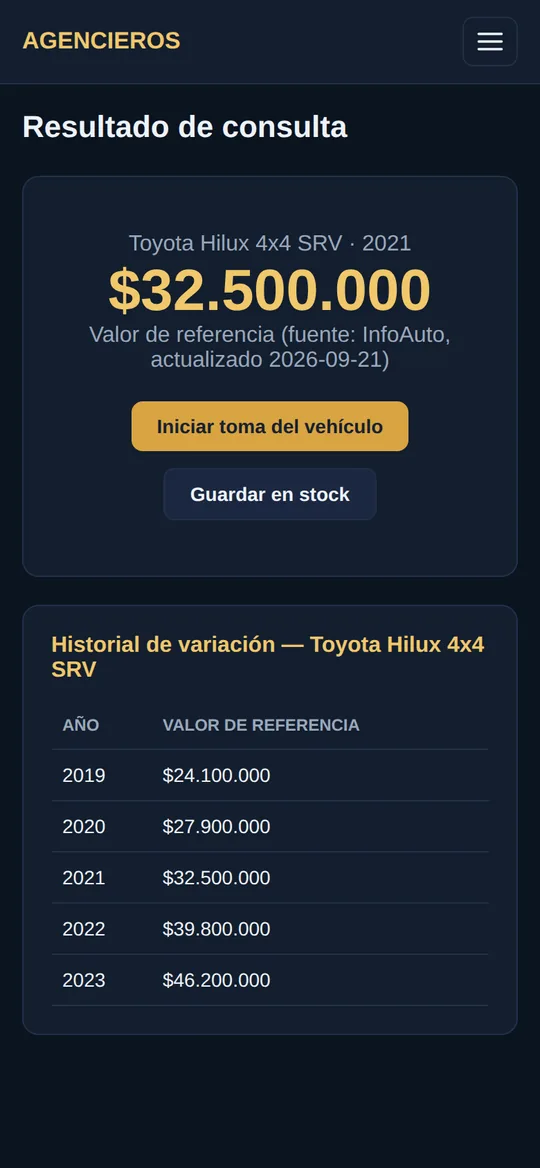
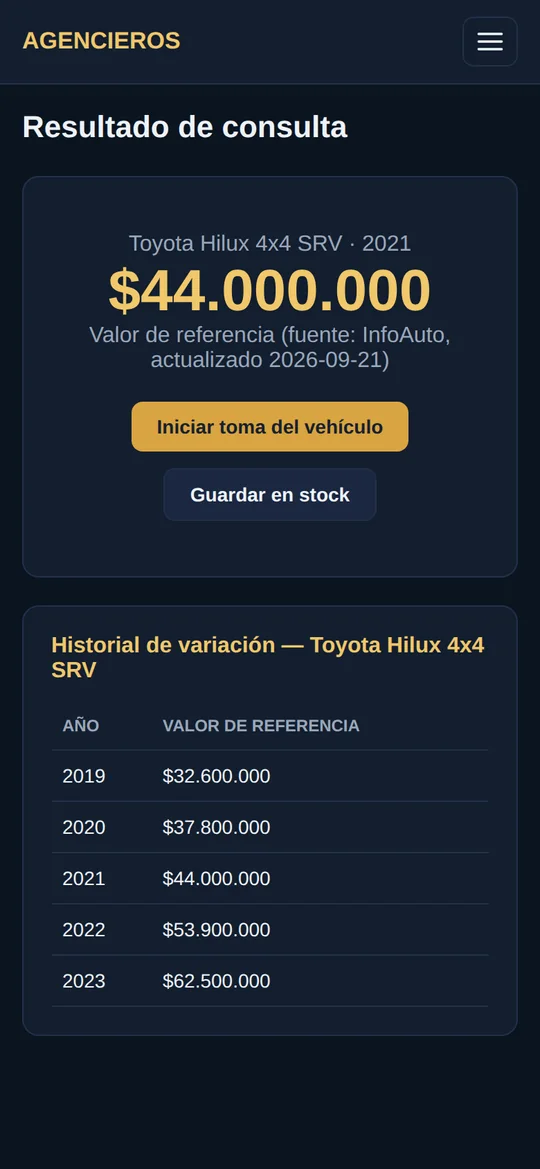
Landing: fotos y precios nuevos, seccion Stock y ficha comercial, capturas actualizadas
Claude-Session: https://claude.ai/code/session_01BYxF5d2n9A3ijLxF3ah7hi

diff --git a/templates/landing.html b/templates/landing.html
@@ -137,6 +137,9 @@
 
     .split { display: grid; gap: 44px; align-items: center; }
     .split .phone { width: min(70vw, 268px); margin: 0 auto; }
+    .duo { display: flex; gap: 14px; justify-content: center; align-items: flex-start; }
+    .duo .phone { width: auto; flex: 1 1 0; max-width: 232px; margin: 0; }
+    .duo .phone:nth-child(2) { margin-top: 34px; }
     .ticks { list-style: none; margin: 22px 0 0; padding: 0; display: grid; gap: 10px; }
     .ticks li { position: relative; padding-left: 28px; color: #d3dbe8; }
     .ticks li::before {
@@ -199,6 +202,8 @@
       .split.rev .split-media { order: -1; }
       .mods { grid-template-columns: repeat(3, 1fr); column-gap: 44px; }
       .split .phone { width: 276px; }
+      .duo { gap: 22px; }
+      .split .duo .phone { width: auto; }
       .showcase-track { justify-content: center; overflow: visible; padding-top: 44px; gap: 26px; }
       .showcase-item { flex: 1 1 0; max-width: 212px; }
       .showcase-item:nth-child(2), .showcase-item:nth-child(4) { transform: translateY(-16px); }
@@ -280,7 +285,7 @@
             <div class="sub">Valor de referencia e historial por año</div>
           </div>
           <div class="showcase-item">
-            <figure class="phone"><img src="{{ url_for('static', filename='landing/m-pedidos.webp') }}" width="540" height="1168" alt="Banco de pedidos: lo que busca cada cliente" loading="lazy"></figure>
+            <figure class="phone"><img src="{{ url_for('static', filename='landing/m-pedidos.webp') }}" width="540" height="1169" alt="Banco de pedidos: lo que busca cada cliente" loading="lazy"></figure>
             <div class="cap">Banco de pedidos</div>
             <div class="sub">Lo que busca cada cliente</div>
           </div>
@@ -295,7 +300,7 @@
             <div class="sub">Tu agencia de un vistazo</div>
           </div>
           <div class="showcase-item">
-            <figure class="phone"><img src="{{ url_for('static', filename='landing/m-red.webp') }}" width="540" height="1168" alt="Red de Agencieros: ofertas y búsquedas de otras agencias" loading="lazy"></figure>
+            <figure class="phone"><img src="{{ url_for('static', filename='landing/m-red.webp') }}" width="540" height="1169" alt="Red de Agencieros: ofertas y búsquedas de otras agencias" loading="lazy"></figure>
             <div class="cap">Red de Agencieros</div>
             <div class="sub">Ofrecé y buscá entre colegas</div>
           </div>
@@ -336,11 +341,34 @@
       </div>
     </section>
 
-    <!-- ===== Financiación ===== -->
+    <!-- ===== Stock y ficha ===== -->
     <section class="block alt">
       <div class="wrap split rev">
         <div>
-          <div class="eyebrow">02 &nbsp;Financiación propia</div>
+          <div class="eyebrow">02 &nbsp;Stock y ficha comercial</div>
+          <h2 class="sec-title">Tu stock, listo para mostrar y vender.</h2>
+          <p class="sec-lead">Cargá cada vehículo con sus fotos y su precio. Cada uno tiene su ficha pública para mandar por WhatsApp.</p>
+          <ul class="ticks">
+            <li>Fotos, precio, kilometraje y equipamiento de cada vehículo.</li>
+            <li>Estado de cada unidad: disponible, por ingresar, en reparación, señado o vendido.</li>
+            <li>Ventas con seña y permuta, registradas desde el mismo stock.</li>
+            <li>Ficha comercial con botón de WhatsApp para compartir con el cliente.</li>
+          </ul>
+        </div>
+        <div class="split-media">
+          <div class="duo">
+            <figure class="phone"><img src="{{ url_for('static', filename='landing/m-stock.webp') }}" width="540" height="1169" alt="Stock de vehículos con fotos, precio y estado" loading="lazy"></figure>
+            <figure class="phone"><img src="{{ url_for('static', filename='landing/m-ficha.webp') }}" width="540" height="1169" alt="Ficha comercial de una Toyota Hilux con foto, precio y equipamiento" loading="lazy"></figure>
+          </div>
+        </div>
+      </div>
+    </section>
+
+    <!-- ===== Financiación ===== -->
+    <section class="block">
+      <div class="wrap split">
+        <div>
+          <div class="eyebrow">03 &nbsp;Financiación propia</div>
           <h2 class="sec-title">El simulador de cuotas, a mano en el momento de la venta.</h2>
           <p class="sec-lead">Armá el plan con tu cliente: monto, cantidad de cuotas, periodicidad y tasa. La app calcula la cuota, el total y el interés.</p>
           <ul class="ticks">
@@ -358,9 +386,9 @@
 
     <!-- ===== Dashboard ===== -->
     <section class="block">
-      <div class="wrap split">
+      <div class="wrap split rev">
         <div>
-          <div class="eyebrow">03 &nbsp;Dashboard</div>
+          <div class="eyebrow">04 &nbsp;Dashboard</div>
           <h2 class="sec-title">Tu agencia de un vistazo.</h2>
           <p class="sec-lead">Un tablero con lo que importa cada día, sin planillas ni cuentas a mano.</p>
           <ul class="ticks">

diff --git a/PROYECTO.md b/PROYECTO.md
@@ -6,7 +6,7 @@
 
 ---
 
-_Última actualización: 21/09/2026 — 15:09 ART (landing rediseñada + revisión de Meta Ads de PresupuestoPRO y plan para Agencieros)_
+_Última actualización: 21/09/2026 — 16:00 ART (landing con fotos y precios nuevos; sección Stock y ficha; plan de Meta Ads)_
 
 ## Qué es este proyecto
 **AGENCIEROS**: la plataforma más completa para agencias de automotores de Argentina. Unifica consulta de precios, gestión del negocio, tasación, rentabilidad y una red de colaboración entre agencieros.
@@ -107,6 +107,13 @@ El mercado argentino **no está vacío** — hay al menos dos jugadores directos
 ---
 
 ## Cambios recientes
+
+### Sesión 21/09/2026 (tarde) — Landing rearmada con las fotos y precios de Daniel (Msg 11)
+- Daniel aportó 5 fotos (Hilux 2021 $44.000.000, Ónix LTZ 2020 $16.700.000, Amarok V6 Highline 2021 $38.700.000, Focus SE 2018 $18.500.000, Duster Privilege 2021 $23.400.000). La agencia demo se re-sembró con esas 5 unidades (Focus en reparación para el Dashboard) y los precios de referencia de la demo se alinearon a esos valores. Red y Pedidos se ajustaron a ese nivel de precios. Todo en la base demo (cloud), NO en la app real.
+- Capturas nuevas: Precios (Hilux 4x4 SRV 2021 $44.000.000), Stock, Ficha, Pedidos, Red y Dashboard. `og.jpg` regenerada. La captura de Tasación y la de Financiación no cambiaron.
+- `landing.html`: sección nueva "02 Stock y ficha comercial" con dos celulares (Stock + Ficha); Financiación pasa a 03 y Dashboard a 04.
+- Las fotos de la Amarok (patente "X CROSS Automotores") y del Duster (cartel "STRONG") traían marcas de otras agencias; Daniel las tapó él mismo y se reemplazaron en la captura de Stock (`m-stock.webp`) y en `og.jpg`.
+- Pendiente: Railway (dominios raíz y `www`) + Cloudflare; test de registro completo en producción; Pixel de Meta.
 
 ### Sesión 21/09/2026 (tarde) — Revisión de Meta Ads de PresupuestoPRO y plan para Agencieros (Msg 10)
 - Se leyó `05_MARKETING/META_ADS/` (PROYECTO.md, CAMPANA_PRESUPUESTOPRO, CAMPANA_RETARGETING_PURCHASE, CAMPANA_SEGMENTACION_PERFILES). Resumen: adquisición barata (~$690–1.060 por registro, $3.000/día) pero post-registro casi sin pagos (~234 registros, 2 pagos por llamada); Pixel roto 3 semanas por un parámetro de URL perdido al activar la validación; retargeting a `Purchase` gastó $23.641 con 0 compras porque el evento nunca disparó; campañas desactivadas el 25/08.
